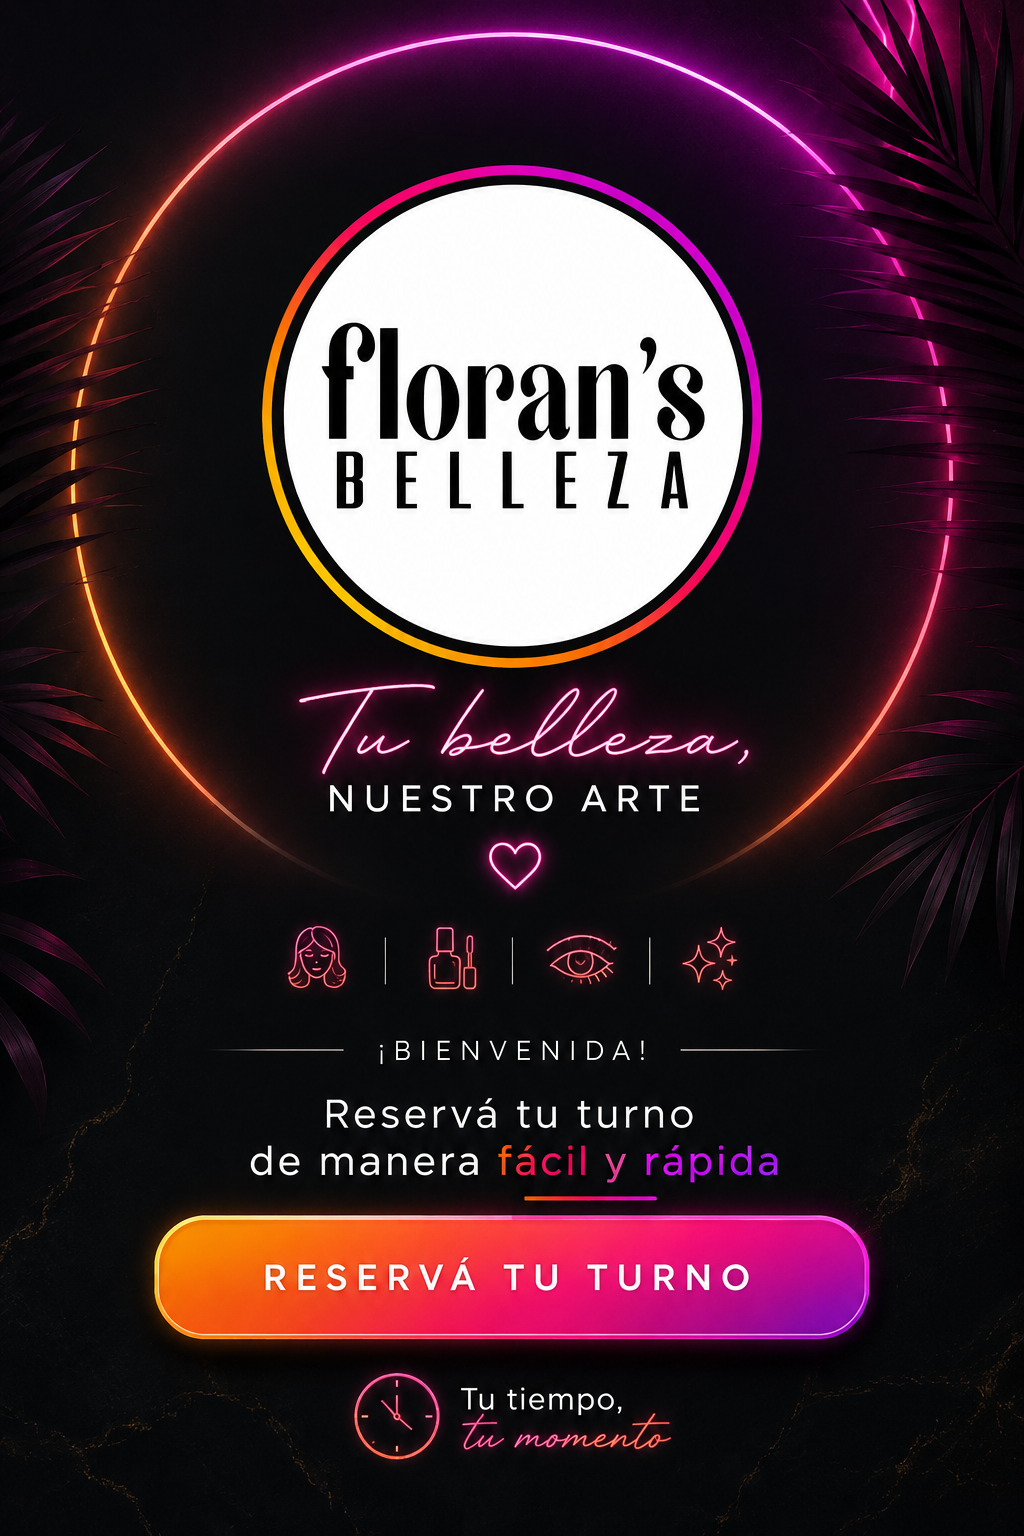
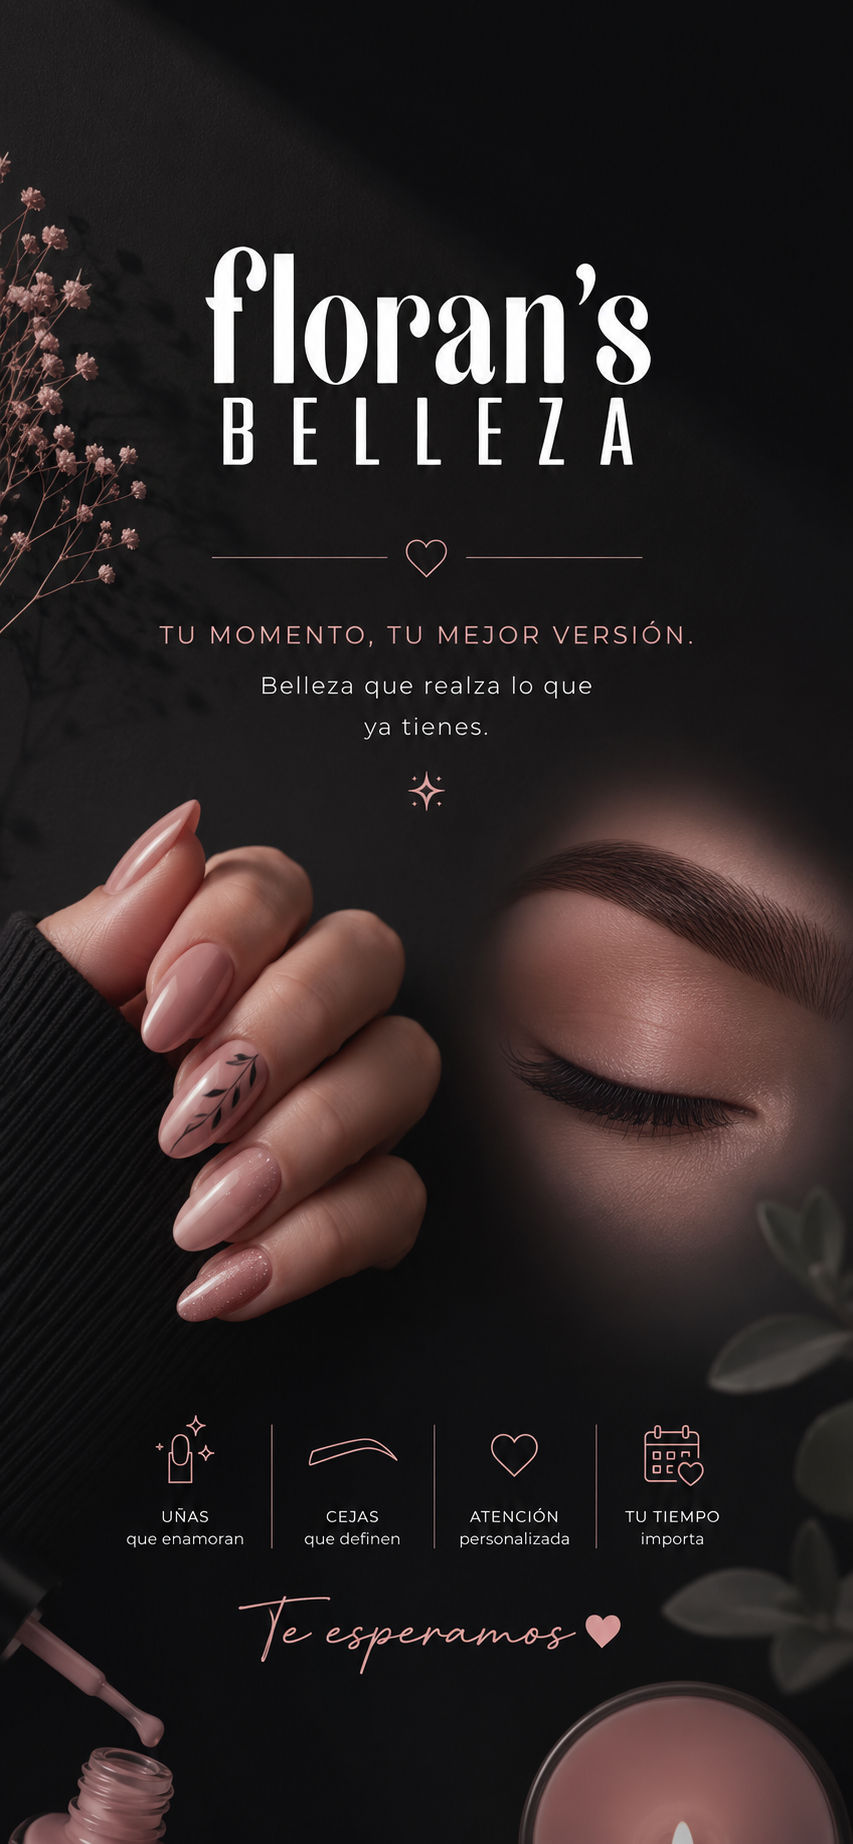
Intro automatica (1.5s, se levanta) con nueva portada

diff --git a/index.html b/index.html
@@ -394,40 +394,15 @@
 
   /* ---------- SPLASH / PORTADA ---------- */
   #splash{
-    position:fixed;top:0;bottom:0;left:50%;transform:translateX(-50%);width:100%;max-width:540px;z-index:9999;cursor:pointer;
+    position:fixed;top:0;bottom:0;left:50%;transform:translateX(-50%);width:100%;max-width:540px;z-index:9999;
     background:#0a0610 url("portada.png") center center/cover no-repeat;
-    transition:opacity .55s ease,visibility .55s ease;
+    transition:transform .75s cubic-bezier(.7,0,.2,1);
   }
-  #splash:active{filter:brightness(1.04)}
-  #splash.hide{opacity:0;visibility:hidden;pointer-events:none}
-  /* logo semi-flotando sobre la portada (sobre el círculo del diseño) */
-  #splash .float-logo{
-    position:absolute;left:50%;top:12.5%;transform:translateX(-50%);
-    height:28%;aspect-ratio:1;border-radius:50%;z-index:2;pointer-events:none;
-    background:#fff url("floransbelleza-logo.png") center/86% no-repeat;
-    box-shadow:0 16px 34px rgba(0,0,0,.55),0 6px 14px rgba(0,0,0,.4);
-    animation:logoFloat 3.6s ease-in-out infinite;
-  }
-  @keyframes logoFloat{
-    0%,100%{transform:translateX(-50%) translateY(0);box-shadow:0 14px 26px rgba(0,0,0,.5)}
-    50%{transform:translateX(-50%) translateY(-14px);box-shadow:0 26px 40px rgba(0,0,0,.55)}
-  }
-  /* zona táctil sobre el botón "Reservá tu turno" con un latido sutil */
-  #splash .splash-tap{
-    position:absolute;left:50%;bottom:14.5%;transform:translateX(-50%);width:66%;height:5.5%;border-radius:40px;
-    box-shadow:0 0 0 0 rgba(255,90,170,.55);animation:splashPulse 1.7s ease-in-out infinite;pointer-events:none;
-  }
-  @keyframes splashPulse{
-    0%,100%{box-shadow:0 0 14px 2px rgba(255,90,170,.0)}
-    50%{box-shadow:0 0 26px 6px rgba(255,90,170,.55)}
-  }
+  #splash.up{transform:translateX(-50%) translateY(-105%)}
 </style>
 </head>
 <body>
-<div id="splash" onclick="enterApp()" role="button" tabindex="0" aria-label="Reservá tu turno">
-  <div class="float-logo"></div>
-  <span class="splash-tap"></span>
-</div>
+<div id="splash" aria-hidden="true"></div>
 <div class="bg-blobs"><span class="blob b1"></span><span class="blob b2"></span><span class="blob b3"></span></div>
 <div class="bg-grain"></div>
 
@@ -817,17 +792,16 @@ let toastT;function toast(m){const t=$("toast");t.textContent=m;t.classList.add(
 
 renderCats();renderServices();renderPros();showStep(0);
 
-/* ---------- PORTADA / SPLASH ---------- */
-function enterApp(){
+/* ---------- PORTADA / INTRO (1.5s y se levanta) ---------- */
+(function(){
   const s=$("splash"); if(!s)return;
-  s.classList.add("hide");
-  document.body.style.overflow="";
-  setTimeout(()=>s.remove(),650);
-}
-if($("splash")){
   document.body.style.overflow="hidden";
-  $("splash").addEventListener("keydown",e=>{if(e.key==="Enter"||e.key===" ")enterApp();});
-}
+  setTimeout(()=>{
+    s.classList.add("up");
+    document.body.style.overflow="";
+    setTimeout(()=>s.remove(),800);
+  },1500);
+})();
 
 /* ---------- FRANJA DE TRABAJOS (carrusel automático cada 1s) ---------- */
 (function(){